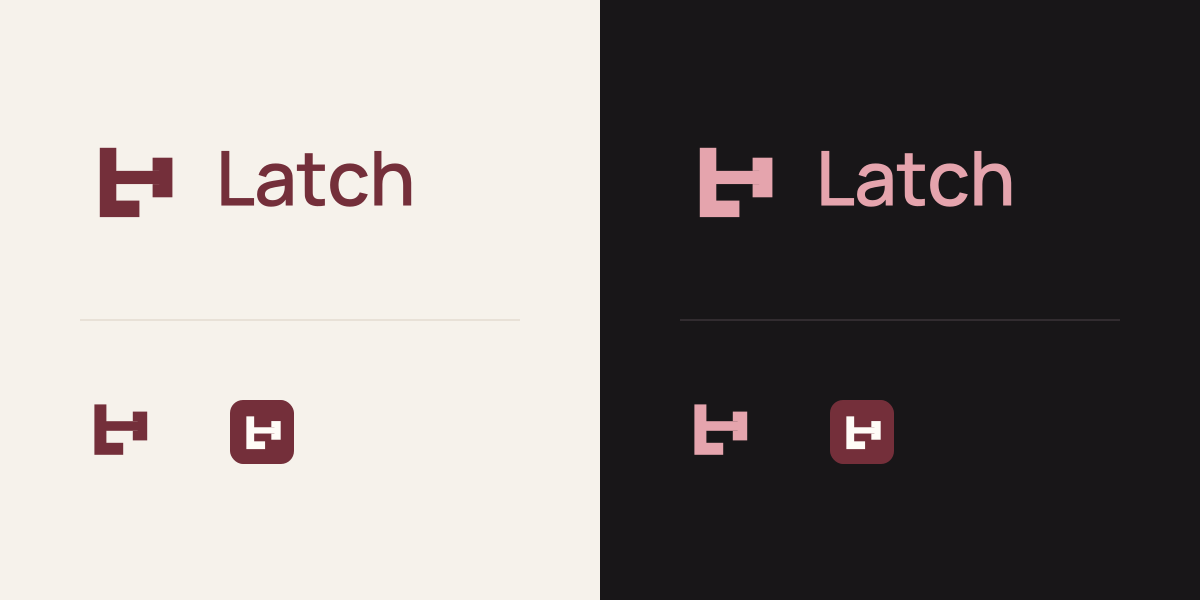
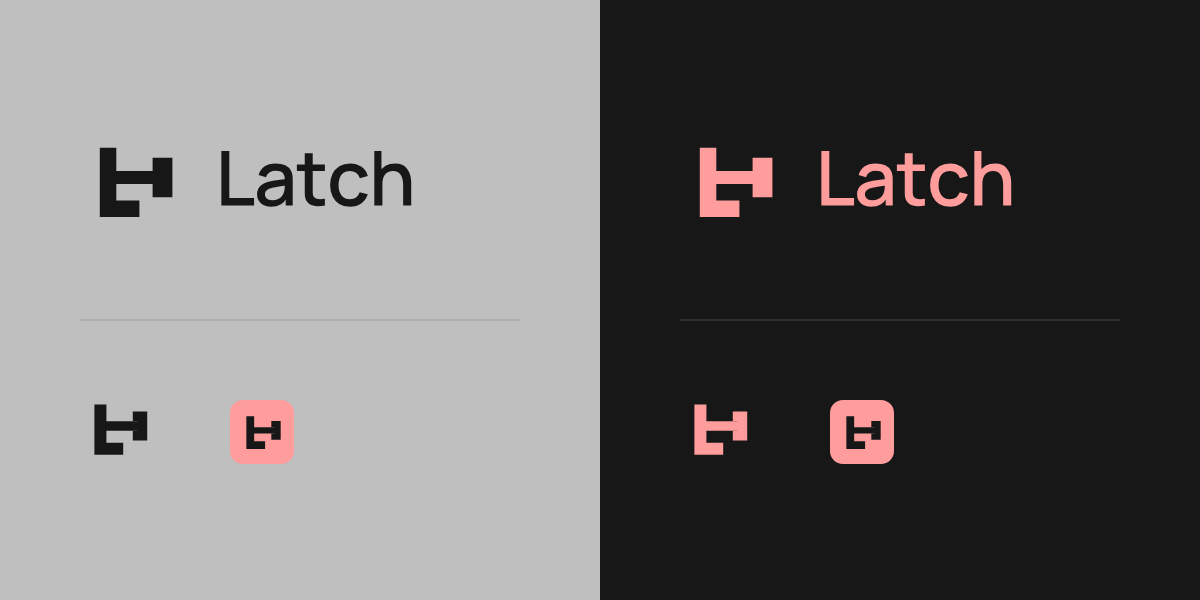
Apply pink grey and charcoal palette across Latch
Update accessible light and dark themes, native brand assets, icons, printable records and submission artwork. Verify the live Vultr app across 24 layouts with axe, focus and served asset checks.

diff --git a/src/style.css b/src/style.css
@@ -12,35 +12,39 @@
 }
 :root {
   color-scheme: light;
-  --canvas: #f6f2eb;
-  --surface: #fffcf7;
-  --subtle: #eee8de;
-  --text: #24201f;
-  --muted: #665e5a;
-  --divider: #d9d0c4;
-  --control: #8c8179;
-  --accent: #742f3a;
-  --hover: #5b202b;
-  --accent-text: #fffcf7;
-  --wash: #f2e3e5;
-  --success: #285e48;
-  --danger: #9c302c;
+  --canvas: #bfbfbf;
+  --surface: #e9e9e9;
+  --subtle: #d4d4d4;
+  --text: #171717;
+  --muted: #454545;
+  --divider: #9a9a9a;
+  --control: #626262;
+  --accent: #ff9d9c;
+  --hover: #ffb2b1;
+  --accent-text: #171717;
+  --accent-ink: #171717;
+  --wash: #f6cecd;
+  --focus: #171717;
+  --success: #171717;
+  --danger: #7c3534;
 }
 :root[data-theme="dark"] {
   color-scheme: dark;
-  --canvas: #181618;
-  --surface: #211e20;
-  --subtle: #2b2528;
-  --text: #f3eee8;
-  --muted: #bdb0aa;
-  --divider: #4c4147;
-  --control: #93838a;
-  --accent: #e5a4ad;
-  --hover: #f0bbc2;
-  --accent-text: #32151c;
-  --wash: #3c252c;
-  --success: #9ecbb6;
-  --danger: #ffb4ab;
+  --canvas: #171717;
+  --surface: #222222;
+  --subtle: #303030;
+  --text: #e9e9e9;
+  --muted: #bfbfbf;
+  --divider: #484848;
+  --control: #858585;
+  --accent: #ff9d9c;
+  --hover: #ffb2b1;
+  --accent-text: #171717;
+  --accent-ink: #ff9d9c;
+  --wash: #3a2929;
+  --focus: #bfbfbf;
+  --success: #bfbfbf;
+  --danger: #ff9d9c;
 }
 * {
   box-sizing: border-box;
@@ -95,20 +99,20 @@ button:hover:not(:disabled) {
 .primary {
   background: var(--accent);
   color: var(--accent-text);
-  border-color: var(--accent);
+  border-color: var(--accent-ink);
 }
 .primary:hover:not(:disabled) {
   background: var(--hover);
 }
 :focus-visible {
-  outline: 2px solid var(--accent);
+  outline: 2px solid var(--focus);
   outline-offset: 3px;
 }
 .text-button {
   border: 0;
   background: none;
   padding: 8px 0;
-  color: var(--accent);
+  color: var(--accent-ink);
   justify-content: flex-start;
   display: inline-flex;
 }
@@ -218,7 +222,7 @@ small {
 }
 .rail a.active {
   background: var(--wash);
-  color: var(--accent);
+  color: var(--accent-ink);
 }
 .rail .new-link {
   border: 1px solid var(--control);
@@ -476,7 +480,7 @@ fieldset {
 .item-row legend,
 .source-row legend {
   font-size: 13px;
-  color: var(--accent);
+  color: var(--accent-ink);
   font-weight: 750;
 }
 .source-row {
@@ -582,7 +586,7 @@ dd small {
   align-items: center;
   min-height: 44px;
   padding-right: 20px;
-  color: var(--accent);
+  color: var(--accent-ink);
   font-size: 13px;
 }
 .notice {
@@ -640,8 +644,8 @@ dd small {
 }
 .segments button[aria-pressed="true"] {
   background: var(--wash);
-  border-color: var(--accent);
-  color: var(--accent);
+  border-color: var(--accent-ink);
+  color: var(--accent-ink);
 }
 .settings-document {
   max-width: 900px;
@@ -969,7 +973,7 @@ dd small {
 .review-empty { padding: 40px 32px; min-height: 300px; }
 .source-tabs { display: flex; flex-wrap: wrap; gap: 8px; padding: 0 32px 24px; border-bottom: 1px solid var(--divider); }
 .source-tabs button { max-width: 100%; overflow-wrap: anywhere; }
-.source-tabs button[aria-pressed="true"], .review-actions button[aria-pressed="true"] { background: var(--wash); color: var(--accent); border-color: var(--accent); }
+.source-tabs button[aria-pressed="true"], .review-actions button[aria-pressed="true"] { background: var(--wash); color: var(--accent-ink); border-color: var(--accent-ink); }
 .review-stage { display: grid; grid-template-columns: minmax(0, 1fr) 288px; align-items: start; }
 .review-ledger { padding: 32px; min-width: 0; }
 .term-group { margin: 24px 0 32px; }
@@ -998,7 +1002,7 @@ dd small {
 .source-link { flex-wrap: wrap; max-width: 100%; }
 .source-url { flex-basis: 100%; font-size: 13px; overflow-wrap: anywhere; }
 .captured-text { white-space: pre-wrap; overflow-wrap: anywhere; max-height: 320px; overflow-y: auto; border: 1px solid var(--control); border-radius: 2px; padding: 16px; background: var(--canvas); font-size: 14px; }
-.captured-text mark { color: var(--accent); background: var(--wash); font-weight: 700; }
+.captured-text mark { color: var(--accent-ink); background: var(--wash); font-weight: 700; }
 .capture-image-scroll { max-height: 65dvh; max-width: 100%; overflow: auto; border: 1px solid var(--control); background: var(--subtle); }
 .capture-image-scroll img { display: block; max-width: none; object-fit: contain; }
 .capture-image-scroll .fit-image { width: 100%; height: auto; }
@@ -1010,7 +1014,7 @@ dd small {
 .field-review-form .quote-editor { margin: 24px 0; padding: 16px 0; border-top: 1px solid var(--divider); border-bottom: 1px solid var(--divider); }
 .quote-entry { margin: 24px 0; }
 .field-review-form .evidence-ack { display: flex; align-items: flex-start; gap: 12px; margin: 24px 0 12px; cursor: pointer; }
-.evidence-ack input { flex: 0 0 24px; width: 24px; height: 24px; margin: 0; padding: 0; accent-color: var(--accent); }
+.evidence-ack input { flex: 0 0 24px; width: 24px; height: 24px; margin: 0; padding: 0; accent-color: var(--accent-ink); }
 .field-review-form .primary { margin: 24px 0 8px; }
 @media (min-width: 1024px) {
   .review-stage.has-evidence { grid-template-columns: minmax(240px, .85fr) minmax(360px, 1.15fr); padding-right: 24px; }

diff --git a/services/artifacts/render.py b/services/artifacts/render.py
@@ -50,7 +50,7 @@ def main():
             if y < 60:
                 pdf.showPage()
                 y = 795
-            pdf.setFillColorRGB(0.24, 0.09, 0.12)
+            pdf.setFillColorRGB(23 / 255, 23 / 255, 23 / 255)
             font = "LatchHeading" if heading else "Latch"
             if any(ord(char) not in metrics.getFont(font).face.charToGlyph for char in part):
                 raise ValueError("RECEIPT_FONT_UNSUPPORTED")
@@ -62,7 +62,7 @@ def main():
     pdf.saveState()
     pdf.translate(36, 817)
     pdf.scale(0.5, -0.5)
-    pdf.setFillColorRGB(116 / 255, 47 / 255, 58 / 255)
+    pdf.setFillColorRGB(23 / 255, 23 / 255, 23 / 255)
     for points in (
         ((12, 12), (22, 12), (22, 44), (36, 44), (36, 54), (12, 54)),
         ((44, 18), (56, 18), (56, 42), (44, 42), (44, 34), (48, 34), (48, 26), (44, 26)),

diff --git a/scripts/verify_plan.py b/scripts/verify_plan.py
@@ -71,11 +71,13 @@ def contrast(a,b):
 contrast_results = {}
 for name, theme in tokens['themes'].items():
     pairs = []
-    for fg in ['text','muted','accent','success','warning','danger','info']:
+    for fg in ['text','muted','accentForeground','success','warning','danger','info']:
         for bg in ['canvas','surface','subtle']:
             pairs.append((fg,bg,4.5))
     pairs += [('accentText','accent',4.5),('accentText','accentHover',4.5)]
     pairs += [('controlBorder',bg,3) for bg in ['canvas','surface','subtle']]
+    pairs += [('focus',bg,3) for bg in ['canvas','surface','subtle','accentWash']]
+    pairs += [('text','accentWash',4.5),('accentForeground','accentWash',4.5)]
     result = {}
     for fg,bg,minimum in pairs:
         ratio = contrast(theme[fg],theme[bg]);result[f'{fg}/{bg}'] = round(ratio,2)

diff --git a/scripts/build_submission.py b/scripts/build_submission.py
@@ -12,10 +12,10 @@ from reportlab.pdfgen import canvas
 
 ROOT = Path(__file__).resolve().parents[1]
 OUT = ROOT / "docs/submission"
-STONE = "#F4F0E8"
-INK = "#2C2825"
-RED = "#7A2838"
-MUTED = "#61584F"
+STONE = "#171717"
+INK = "#E9E9E9"
+RED = "#FF9D9C"
+MUTED = "#BFBFBF"
 
 
 def mark(draw, x, y, scale, color):

diff --git a/docs/DESIGN.md b/docs/DESIGN.md
@@ -1,26 +1,26 @@
 # Latch visual system and interaction specification
 
-This token plan was written before any frontend code or brand asset. Seed1793714516810191212 was drawn from the system timestamp. The independent draws are preserved in [DESIGN_ROLLS.json](../DESIGN_ROLLS.json). No generic axis was retained by default and no reroll was needed.
+This token plan was written before any frontend code or brand asset. Seed1793714516810191212 was drawn from the system timestamp. The independent draws are preserved in [DESIGN_ROLLS.json](../DESIGN_ROLLS.json). The original rolls remain as design history. The user supplied palette below supersedes the original palette roll on 6 November 2026.
 
 ## Five rolls and their justification
 
 | Axis | Roll | Decision | Reason tied to Latch |
 | --- | --- | --- | --- |
-| Palette | 3 of 6 | Oxblood and warm limestone | A restrained document palette gives an approval tool gravity without the usual blue SaaS theme. Warm paper keeps long source review comfortable. |
+| Palette | User override | Pink #FF9D9C, grey #BFBFBF and charcoal #171717 | Pink identifies actions, neutral surfaces frame source evidence, and charcoal keeps text readable. |
 | Layout | 5 of 5 | Wide document stage and compact request rail | Evidence needs width. The request list stays compact while source, comparison and action share the main reading stage. No marketing hero/card grid. |
 | Type | 2 of 5 | Manrope body with DM Serif Display for request names and grand totals | The grotesk keeps controls precise; the serif marks the consequential decision and gives the product an editorial voice. |
 | Motion | 1 of 3 | Response to action only | A review tool should explain the user's action, not move for decoration. Nothing animates on first page load or while idle. |
 | Structural device | 1 of 4 | A latch seam separating evidence from release | The single memorable element makes authority visible: reviewed terms meet a controlled final action. It is never a false claim that every quote is safe. |
 
-Short token plan: limestone#F6F2EB, paper#FFFCF7, ink#24201F, oxblood#742F3A. Dark canvas#181618, paper#211E20, ink#F3EEE8, accent#E5A4AD. Manrope14/16/18 for body/navigation, DM Serif Display28/36 for request titles and totals. Layout: a compact request rail sits beside a wide document workbench with source evidence and a quiet, persistent release margin.
+Short token plan: pink#FF9D9C, grey#BFBFBF, charcoal#171717. Light grey canvas and lighter document surfaces; dark charcoal canvas, grey text and pink accents. Manrope14/16/18 for body/navigation, DM Serif Display28/36 for request titles and totals. Layout: a compact request rail sits beside a wide document workbench with source evidence and a quiet, persistent release margin.
 
 Banned-pattern check: no centered hero with three features, all-caps tracked labels, emoji, em dash fragments, decorative arrow suffixes, decorative numbered markers, repeated soft-shadow cards, ambient motion or generic fade/slide entrances. The one expressive device is the latch seam. Shadows are used only to establish an actual overlay layer. The layout is a working document, not a collection of cards.
 
 ## Tokens
 
-Authoritative machine-readable values: [DESIGN_TOKENS.json](../DESIGN_TOKENS.json). Light: canvas#F6F2EB, surface#FFFCF7, subtle#EEE8DE, text#24201F, muted#665E5A, divider#D9D0C4, controlBorder#8C8179, accent#742F3A, accentHover#5B202B, accentText#FFFCF7, accentWash#F2E3E5, success#285E48, warning#80551C, danger#9C302C, info#355C7A. Dark: canvas#181618, surface#211E20, subtle#2B2528, text#F3EEE8, muted#BDB0AA, divider#4C4147, controlBorder#93838A, accent#E5A4AD, accentHover#F0BBC2, accentText#32151C, accentWash#3C252C, success#9ECBB6, warning#E4C38C, danger#FFB4AB, info#ACCAE4.
+Authoritative machine-readable values: [DESIGN_TOKENS.json](../DESIGN_TOKENS.json). The base palette is pink#FF9D9C, grey#BFBFBF and charcoal#171717, with neutral and pink tints for surfaces, hover and selected states. Light theme uses grey canvas, lighter document paper and charcoal text. Dark theme uses charcoal canvas, neutral paper, grey secondary text and pink accents. Primary buttons use pink with charcoal labels in both themes. Light theme links and selected text use charcoal; dark theme uses pink. Status text retains explicit labels/icons, with a darker pink shade for light theme errors.
 
-Functional text must meet4.5:1 and essential control/focus boundaries3:1. Decorative dividers are not control boundaries. Never use an accent wash as body text. Each status pairs text/icon with color. Focus is a2 px accent outline with2 px offset and sufficient contrast on each surface. Use native focus-visible behavior. Source: [WCAG contrast](https://www.w3.org/WAI/WCAG22/Understanding/contrast-minimum.html).
+Functional text must meet4.5:1 and essential control/focus boundaries3:1. Decorative dividers are not control boundaries. Separate accentForeground and focus tokens keep pale pink from becoming low contrast text or outlines on light backgrounds. Focus is a2 px outline with3 px offset. Selected text must remain readable on accentWash. Source: [WCAG contrast](https://www.w3.org/WAI/WCAG22/Understanding/contrast-minimum.html).
 
 Spacing scale4,8,12,16,20,24,32,40,48,64. Controls have6 px radius; source paper2 px; modal10 px; pill status 999 px only where a status is actually a compact badge. No universal rounded box. Main row height56 px with24 px icons/44 px targets,16 px cell padding, minimum line height1.5. Reference footnotes13 px minimum. Dense tables retain14 px type and tabular numerals, never10 px.
 

diff --git a/assets/brand/README.md b/assets/brand/README.md
@@ -2,6 +2,8 @@
 
 The mark combines the letter L with a horizontal bolt meeting a keeper. It represents a reviewed request reaching a controlled release point. It is an original vector construction, not a shield, padlock emoji or stock icon.
 
+The current user palette is pink#FF9D9C, grey#BFBFBF and charcoal#171717. Light wordmarks use charcoal, dark wordmarks use pink, and tab/install icons use a charcoal mark on pink.
+
 Use [mark-light.svg](mark-light.svg) on light surfaces and [mark-dark.svg](mark-dark.svg) on dark surfaces. [mark-mono.svg](mark-mono.svg) inherits currentColor when embedded as an inline vector. Do not expect currentColor in a separately loaded image to inherit the parent page color.
 
 The outlined [wordmark-light.svg](wordmark-light.svg) and [wordmark-dark.svg](wordmark-dark.svg) render without font installation. Their lettering comes from licensed Manrope at weight 600. Font files, licenses and source hashes are retained under assets/fonts and [ASSET_SOURCES.json](../ASSET_SOURCES.json).
